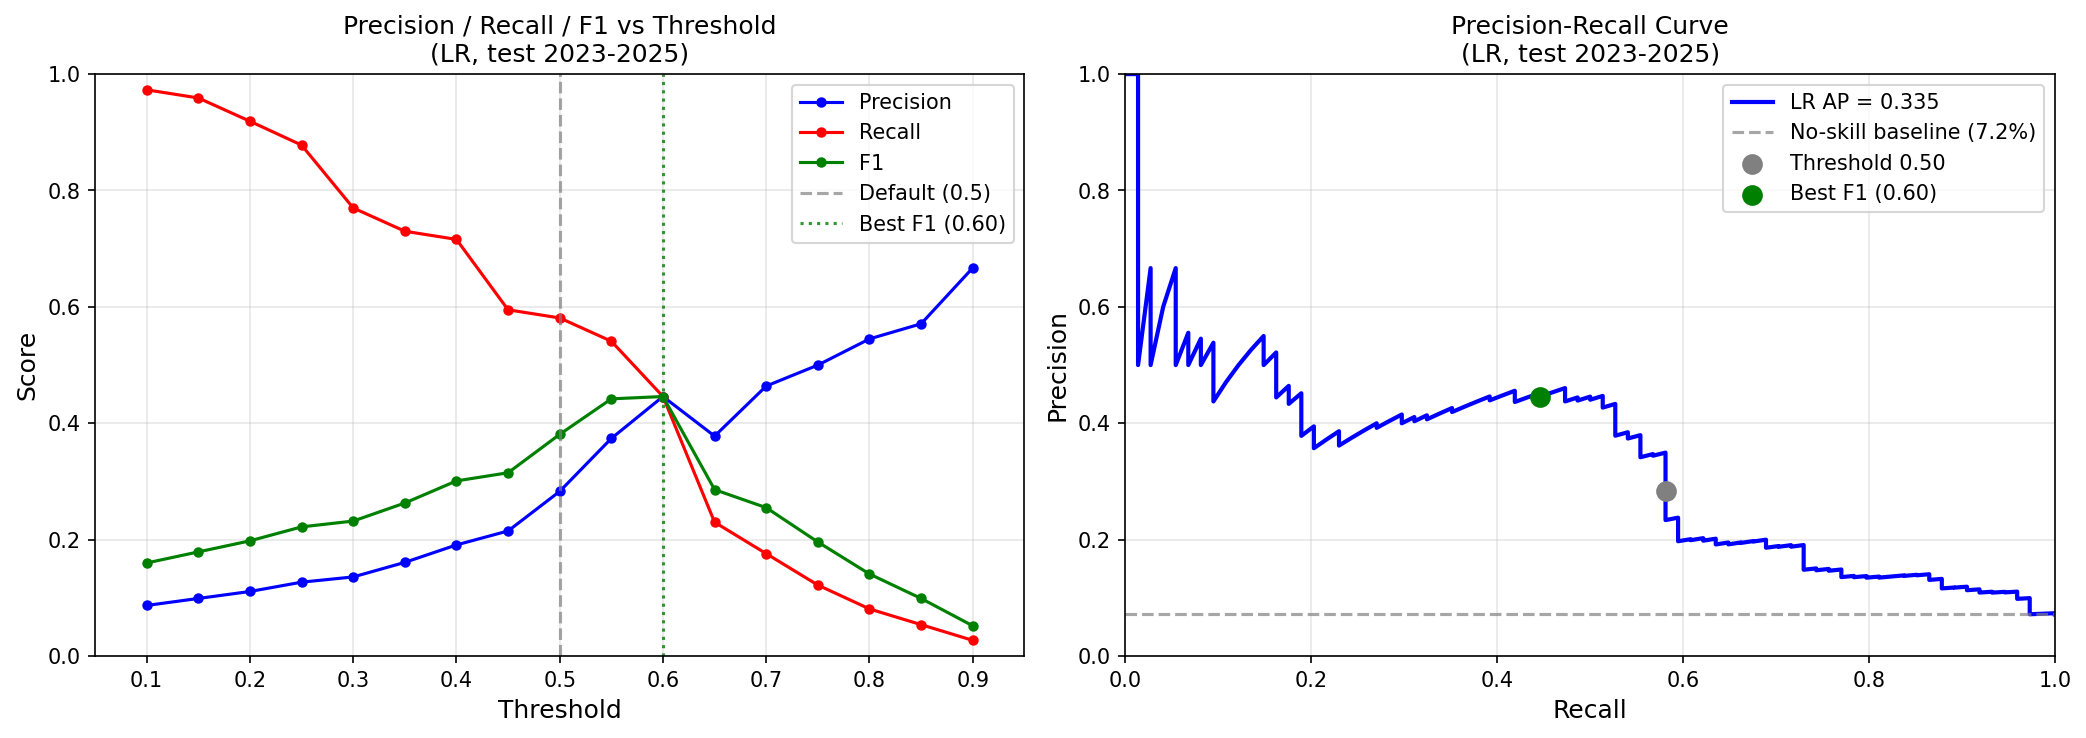
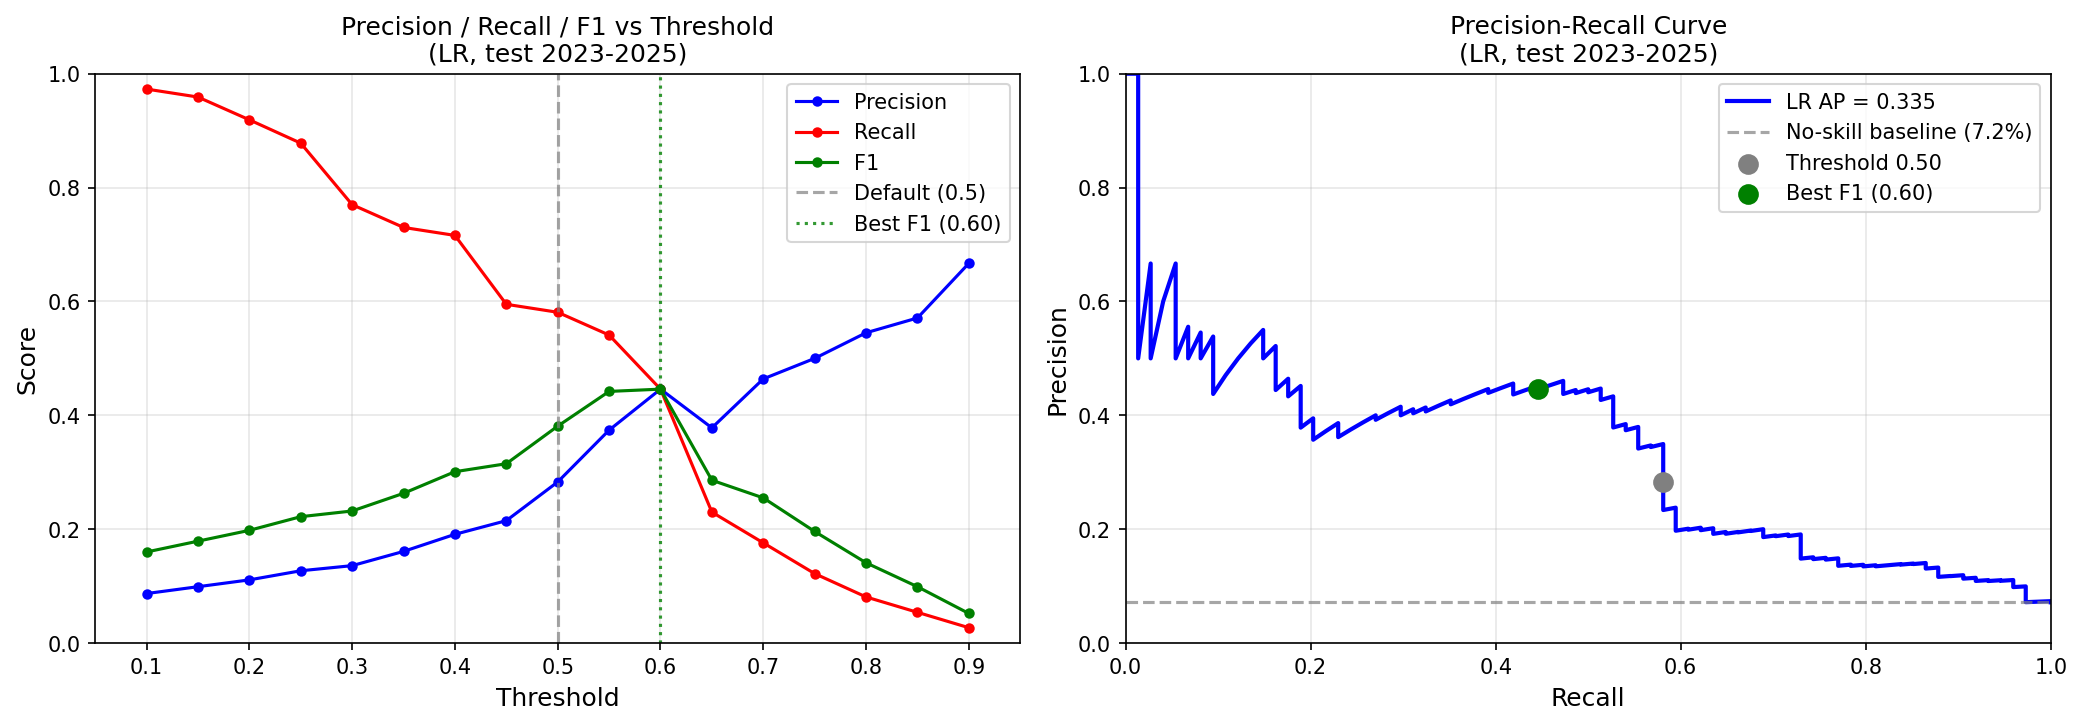
Log sal_lag2/3/4 results in KEY_NUMBERS and refresh threshold sweep figure

diff --git a/notes/KEY_NUMBERS.md b/notes/KEY_NUMBERS.md
@@ -1,7 +1,7 @@
 # KEY_NUMBERS.md — HAB Bloom Predictor Reference
 
 Corrected pipeline. Do NOT use numbers from the OLD docs listed in Section 6.
-Last updated: 2026-05-28
+Last updated: 2026-06-04
 
 ---
 
@@ -29,6 +29,36 @@ Last updated: 2026-05-28
 **Top SHAP features (XGBoost):**
 chl_roll9_mean, Chlorophyll, month, chl_climatology, chl_roll3_mean,
 chl_roll6_mean, dip_x_month, neighbor_chl3_mean, dissolved_oxygen
+
+---
+
+## Section 1b — Feature experiments (LR C=0.05, balanced, threshold 0.60)
+
+Operating point: LR `C=0.05`, `class_weight='balanced'`, data
+`hab_features_tidal.csv`, evaluated on test 2023–2025 at threshold 0.60.
+Scripts: `final_evaluation_threshold_sweep.py`, `daily_inference.py`.
+
+| Feature set | Prec | Recall | F1 | Test AUC | TP/FP/FN |
+|---|---|---|---|---|---|
+| Baseline (30 feat, incl. tidal anomalies) | 0.449 | 0.419 | 0.434 | 0.816 | 31/38/43 |
+| **+ sal_lag2/3/4 (33 feat) — INTEGRATED** | **0.446** | **0.446** | **0.446** | **0.814** | 33/41/41 |
+
+**sal_lag2/3/4** — salinity trajectory lags (2/3/4 prior observations), 97–98%
+coverage in `hab_features_tidal.csv`. Each correlates r≈−0.21 with bloom_28d
+(lower/falling salinity precedes blooms, consistent with river nutrient pulses).
+Integrated 2026-06-04 (commit ce9d02c): recall +0.027 and F1 +0.012 for +2 TP,
+with precision essentially flat (−0.003) and AUC within noise (−0.002).
+
+### Unused-column sweep (`unused_features_search.py`, on top of baseline)
+
+Tested 14 unused `hab_features_daily.csv` columns. Only sal_lags gave a clean
+F1/recall gain. Notable correlations with bloom_28d:
+`neighbor_chl5_mean` +0.283, `sea_water_density` −0.241 (strongest physical
+predictor but CT DEEP stopped recording after 2019 → median-imputed test rows),
+`sal_lag2/3/4` ≈ −0.21, `chl_roll3_std` +0.157. The high-priority physical
+group (density+PAR+chl_std+pH) raised precision to 0.474 and AUC to 0.822 but
+cost recall (0.365), a precision-for-recall trade — not integrated. Adding
+`sea_water_density` on top of sal_lags was destructive (precision 0.394).
 
 ---
 
